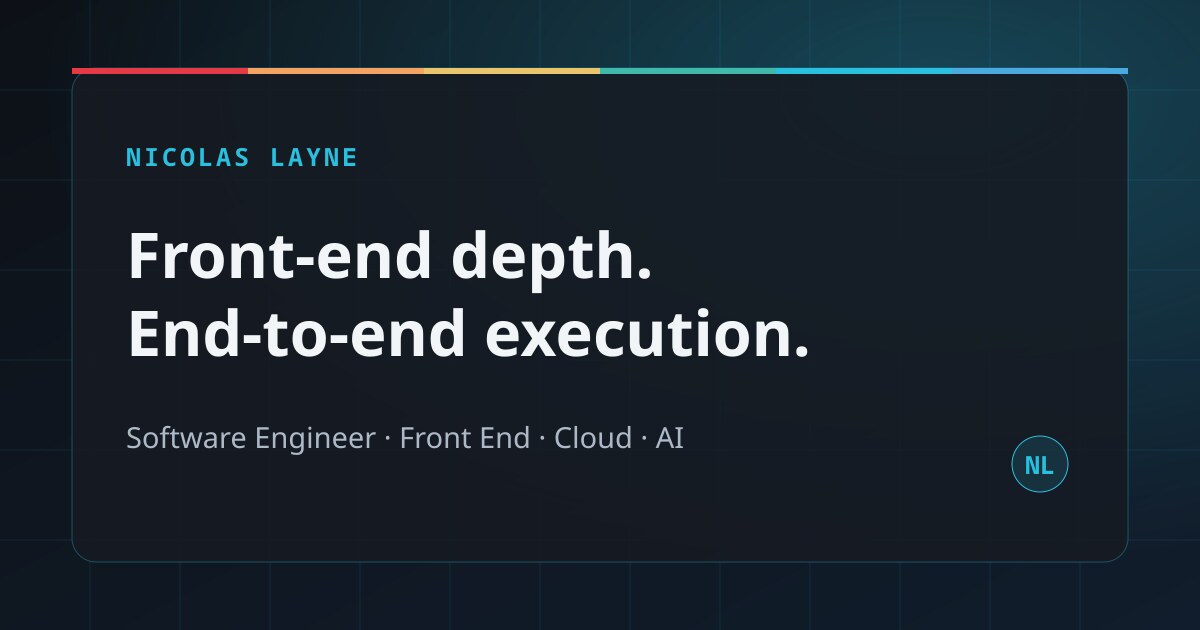
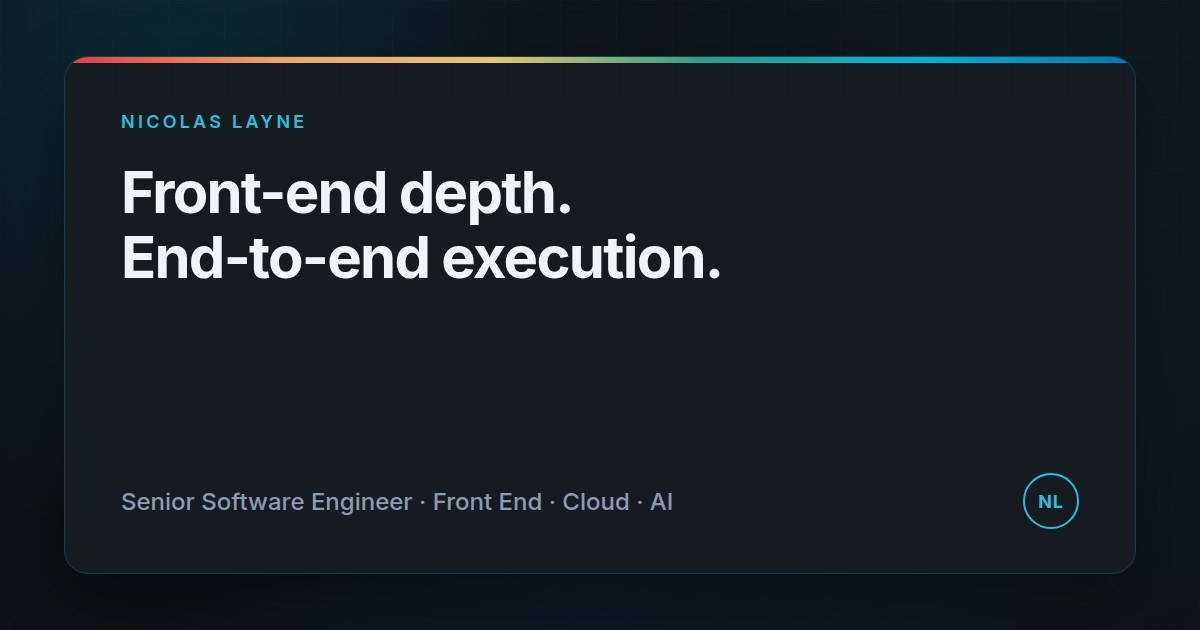
Update public title to Senior Software Engineer
The Microsoft title is Senior Software Engineer. Metadata, hero
byline, and the social card follow that wording. Body copy stays.

diff --git a/.agents/tools/social-preview.html b/.agents/tools/social-preview.html
@@ -1,0 +1,160 @@
+<!doctype html>
+<html lang="en">
+  <head>
+    <meta charset="utf-8" />
+    <title>Nicolas Layne social preview</title>
+    <link rel="preconnect" href="https://fonts.googleapis.com" />
+    <link rel="preconnect" href="https://fonts.gstatic.com" crossorigin />
+    <link
+      href="https://fonts.googleapis.com/css2?family=Inter:wght@500;600;700&display=swap"
+      rel="stylesheet"
+    />
+    <style>
+      * {
+        box-sizing: border-box;
+        margin: 0;
+        padding: 0;
+      }
+
+      html,
+      body {
+        width: 1200px;
+        height: 630px;
+        overflow: hidden;
+        font-family: Inter, ui-sans-serif, system-ui, sans-serif;
+      }
+
+      body {
+        background: #0d1117;
+        color: #f0f4f8;
+      }
+
+      .stage {
+        position: relative;
+        width: 1200px;
+        height: 630px;
+        background:
+          radial-gradient(
+            circle at 15% 10%,
+            rgba(0, 180, 216, 0.14),
+            transparent 30rem
+          ),
+          radial-gradient(
+            circle at 85% 35%,
+            rgba(42, 157, 143, 0.11),
+            transparent 32rem
+          ),
+          radial-gradient(
+            circle at 50% 90%,
+            rgba(0, 119, 182, 0.09),
+            transparent 28rem
+          ),
+          #0d1117;
+      }
+
+      .stage::after {
+        content: '';
+        position: absolute;
+        inset: 0;
+        opacity: 0.16;
+        background-image:
+          linear-gradient(rgba(0, 180, 216, 0.2) 1px, transparent 1px),
+          linear-gradient(90deg, rgba(0, 180, 216, 0.2) 1px, transparent 1px);
+        background-size: 56px 56px;
+        mask-image: linear-gradient(to bottom, black, transparent 72%);
+      }
+
+      .card {
+        position: absolute;
+        inset: 56px 64px;
+        display: flex;
+        flex-direction: column;
+        background: #161b22;
+        border: 1px solid rgba(0, 180, 216, 0.22);
+        border-radius: 24px;
+        overflow: hidden;
+        box-shadow: 0 24px 64px rgba(0, 0, 0, 0.35);
+      }
+
+      .rainbow {
+        height: 6px;
+        background: linear-gradient(
+          90deg,
+          #e63946,
+          #f4a261,
+          #e9c46a,
+          #2a9d8f,
+          #00b4d8,
+          #0077b6
+        );
+      }
+
+      .content {
+        flex: 1;
+        display: flex;
+        flex-direction: column;
+        padding: 48px 56px 44px;
+      }
+
+      .kicker {
+        font-size: 18px;
+        font-weight: 600;
+        letter-spacing: 0.18em;
+        text-transform: uppercase;
+        color: #29c0df;
+      }
+
+      h1 {
+        margin-top: 28px;
+        font-size: 58px;
+        font-weight: 700;
+        line-height: 1.12;
+        letter-spacing: -0.03em;
+      }
+
+      .footer {
+        display: flex;
+        align-items: center;
+        justify-content: space-between;
+        margin-top: auto;
+        padding-top: 28px;
+      }
+
+      .subtitle {
+        font-size: 24px;
+        font-weight: 500;
+        color: #8b9cb3;
+      }
+
+      .badge {
+        display: grid;
+        place-items: center;
+        width: 56px;
+        height: 56px;
+        border: 2px solid #29c0df;
+        border-radius: 50%;
+        color: #29c0df;
+        font-size: 18px;
+        font-weight: 700;
+        letter-spacing: 0.04em;
+      }
+    </style>
+  </head>
+  <body>
+    <div class="stage">
+      <div class="card">
+        <div class="rainbow"></div>
+        <div class="content">
+          <p class="kicker">Nicolas Layne</p>
+          <h1>Front-end depth.<br />End-to-end execution.</h1>
+          <div class="footer">
+            <p class="subtitle">
+              Senior Software Engineer · Front End · Cloud · AI
+            </p>
+            <div class="badge" aria-hidden="true">NL</div>
+          </div>
+        </div>
+      </div>
+    </div>
+  </body>
+</html>

diff --git a/index.html b/index.html
@@ -7,7 +7,7 @@
     <meta name="theme-color" content="#0d1117" />
     <meta
       name="description"
-      content="Nicolas Layne is a software engineer with deep front-end expertise, building end-to-end cloud products, AI orchestration systems, and developer tooling."
+      content="Nicolas Layne is a senior software engineer with deep front-end expertise, building end-to-end cloud products, AI orchestration systems, and developer tooling."
     />
     <link rel="canonical" href="https://nicolas.wildflowersranch.com/" />
     <link rel="apple-touch-icon" sizes="180x180" href="/apple-touch-icon.png" />
@@ -17,11 +17,11 @@
     <meta property="og:site_name" content="Nicolas Layne" />
     <meta
       property="og:title"
-      content="Nicolas Layne | Software Engineer — Front End, Cloud & AI"
+      content="Nicolas Layne | Senior Software Engineer — Front End, Cloud & AI"
     />
     <meta
       property="og:description"
-      content="Nicolas Layne is a software engineer with deep front-end expertise, building end-to-end cloud products, AI orchestration systems, and developer tooling."
+      content="Nicolas Layne is a senior software engineer with deep front-end expertise, building end-to-end cloud products, AI orchestration systems, and developer tooling."
     />
     <meta property="og:url" content="https://nicolas.wildflowersranch.com/" />
     <meta
@@ -40,11 +40,11 @@
     <meta name="twitter:card" content="summary_large_image" />
     <meta
       name="twitter:title"
-      content="Nicolas Layne | Software Engineer — Front End, Cloud & AI"
+      content="Nicolas Layne | Senior Software Engineer — Front End, Cloud & AI"
     />
     <meta
       name="twitter:description"
-      content="Nicolas Layne is a software engineer with deep front-end expertise, building end-to-end cloud products, AI orchestration systems, and developer tooling."
+      content="Nicolas Layne is a senior software engineer with deep front-end expertise, building end-to-end cloud products, AI orchestration systems, and developer tooling."
     />
     <meta
       name="twitter:image"
@@ -62,7 +62,7 @@
         "name": "Nicolas Layne",
         "url": "https://nicolas.wildflowersranch.com/",
         "image": "https://nicolas.wildflowersranch.com/nicolas-layne-460.jpg",
-        "jobTitle": "Software Engineer II",
+        "jobTitle": "Senior Software Engineer",
         "worksFor": {
           "@type": "Organization",
           "name": "Microsoft",
@@ -81,7 +81,9 @@
       }
     </script>
 
-    <title>Nicolas Layne | Software Engineer — Front End, Cloud & AI</title>
+    <title>
+      Nicolas Layne | Senior Software Engineer — Front End, Cloud & AI
+    </title>
   </head>
   <body>
     <noscript>You need to enable JavaScript to run this app.</noscript>

diff --git a/src/components/AboutMe.tsx b/src/components/AboutMe.tsx
@@ -123,7 +123,7 @@ const AboutMe = () => {
                     aria-hidden="true"
                     className="text-[#0078A3] dark:text-[#00BCF2]"
                   />
-                  Software Engineer II at Microsoft
+                  Senior Software Engineer at Microsoft
                 </p>
               </div>
 

diff --git a/.agents/tools/README.md b/.agents/tools/README.md
@@ -1,0 +1,3 @@
+# Repo tools
+
+- `render-social-preview.sh` — rebuild `public/social-preview.jpg` from `social-preview.html` at 1200×630 via playwright-cli.
